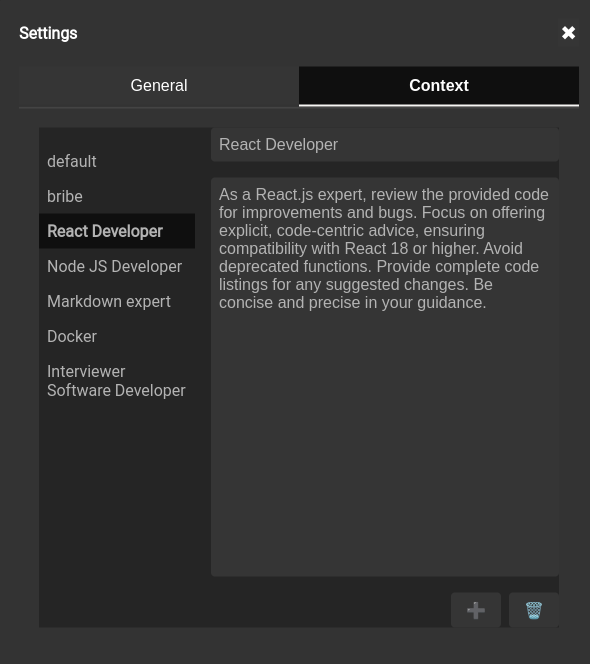
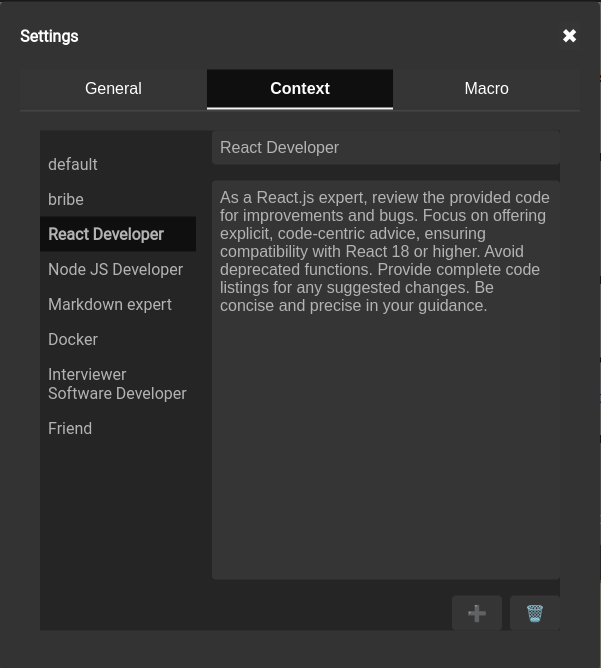
Update README with new features and screenshots (#62)

diff --git a/README.md b/README.md
@@ -12,16 +12,18 @@ Pronounced "oom-DAH-lee"
 
 ![Screenshot of the uMdali chat application interface](ApplicationImage1.png)
 ![Screenshot of the uMdali settings for general](ApplicationSettingsGeneral.png)
-![Screenshot of the uMdali setttings for context](ApplicationSettingsContext.png)
+![Screenshot of the uMdali settings for context](ApplicationSettingsContext.png)
+![Screenshot of the uMdali settings for macros](ApplicationSettingsMacro.png)
 
 # Table of Contents
 1. [Project Overview](#project-overview)
-2. [Getting Started](#getting-started-with-umdali)
+2. [Features](#features)
+3. [Getting Started](#getting-started-with-umdali)
     * [For Enterprises: Deploying in Internal Containers](#for-enterprises-deploying-in-internal-containers)
     * [For Local Use: Running with Docker](#for-local-use-running-with-docker)
     * [For Local Use: Running with npm](#for-local-use-running-with-npm)
     * [For Local Development: Running with VS Code](#for-local-development-running-with-vs-code)
-3. [Frequently Asked Questions (FAQ)](#frequently-asked-questions-faq)
+4. [Frequently Asked Questions (FAQ)](#frequently-asked-questions-faq)
 
 # Project Overview
 
@@ -40,6 +42,52 @@ We believe uMdali represents a glimpse into the future of software creation,  a 
 ## Architecture
 
 For a comprehensive understanding of uMdali's technology stack, design choices, and application structure, please consult the [High-Level Architecture](./docs/Highlevel-Architecture.md) document. This guide includes diagrams, explanations, and details about our frontend, backend, database, utilities, and development tools.
+
+# Features
+
+uMdali offers a broad range of features designed to enhance the user experience and provide a high level of adaptability for enterprise environments. Below is an overview of the key features available in uMdali:
+
+- **Speech to Text for Voice Input**
+  - Incorporates speech-to-text functionality, allowing for voice input into chats.
+
+- **Multi-Lingual Support**
+  - Supports multiple languages, enabling seamless interaction for users from various linguistic backgrounds.
+
+- **Dynamic Text Resizing in Messages**
+  - Dynamically resizes overly long text in messages to maintain readability and a clean interface.
+
+- **Markdown Support for User Input**
+  - Supports Markdown for user input, enabling message formatting with styles, links, lists, and more.
+
+- **Conversation History Search**
+  - Allows users to search through their conversation history for specific discussions, messages, or information.
+
+- **Keyboard Macros for Text Injection**
+  - Enables the use of keyboard macros for quick and efficient text injection into conversations.
+
+- **Outbound Filtering for Message Content**
+  - Supports outbound filtering to remove Personally Identifiable Information (PII), profanity, and other unwanted content.
+
+- **Multi-User Support**
+  - Accommodates multiple authenticated users.
+
+- **Multiple Model Support**
+  - Integrates with various language models (LLMs) that are REST API accessible, offering flexibility and choice.
+
+- **Container-Based Architecture**
+  - Leverages a container-based architecture for scalability, ease of deployment, and cross-platform compatibility.
+
+- **Rate Limiting with Redis**
+  - Implements rate limiting using Redis to manage the flow of requests and maintain performance.
+
+- **Model-Created Conversation Titles**
+  - Uses models to generate contextually relevant titles for conversations.
+
+- **Enterprise-Grade with Individual Accessibility**
+  - Designed for enterprise use but easily run by individuals on any platform, offering flexibility and accessibility.
+
+- **Unlimited Context/System Prompts**
+  - Supports an unlimited number of user context/system prompts for comprehensive interactions with language models.
 
 # Getting Started with uMdali
 
